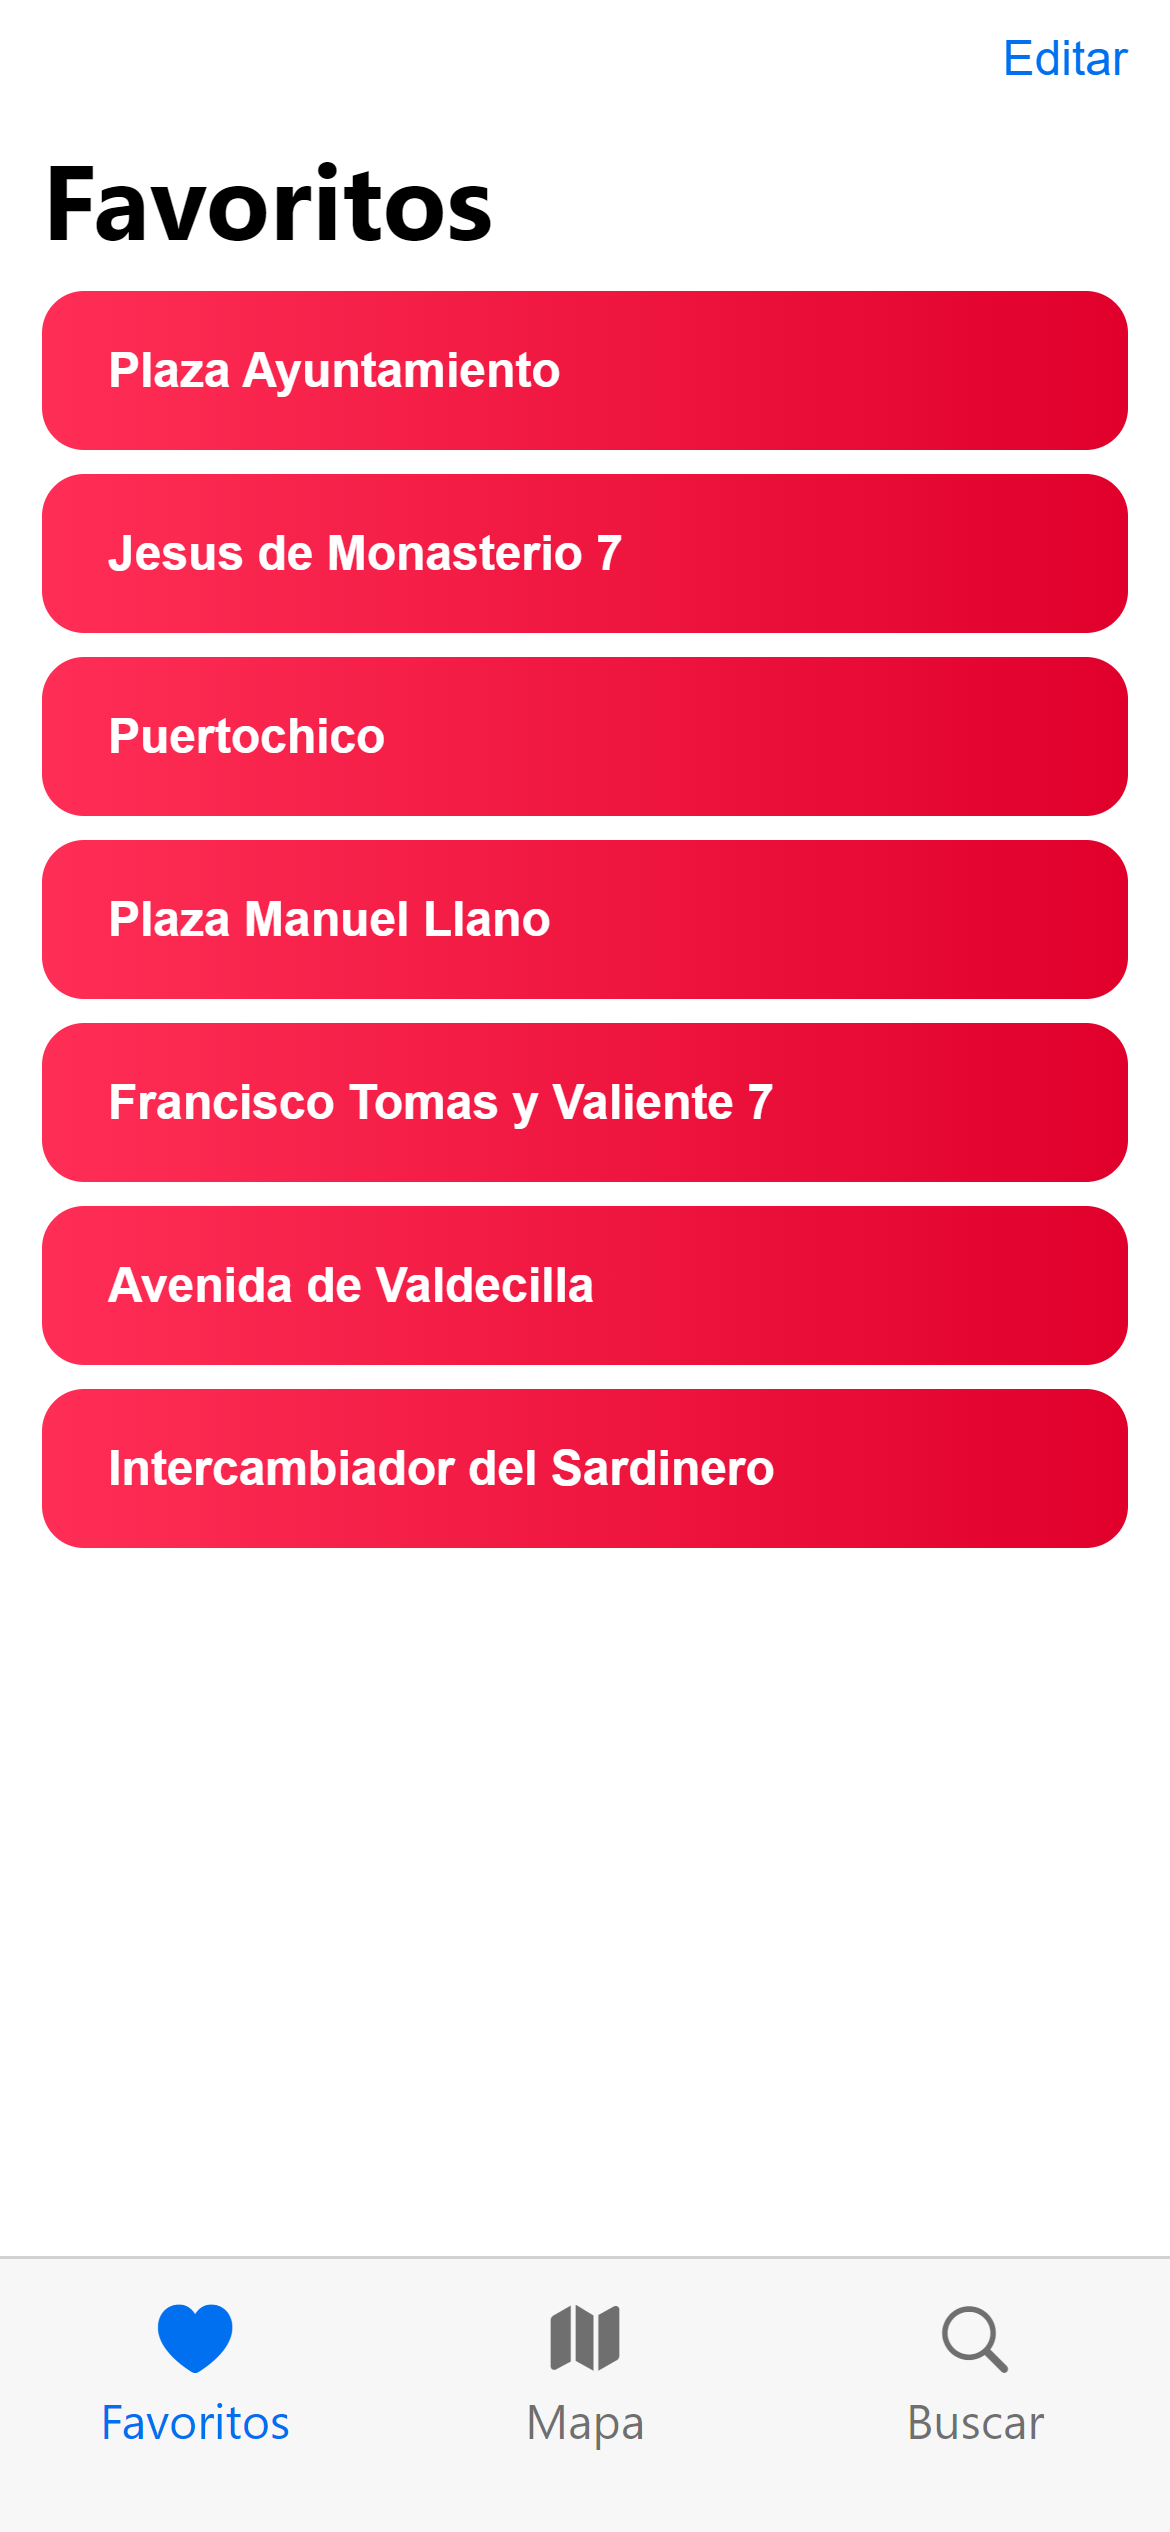
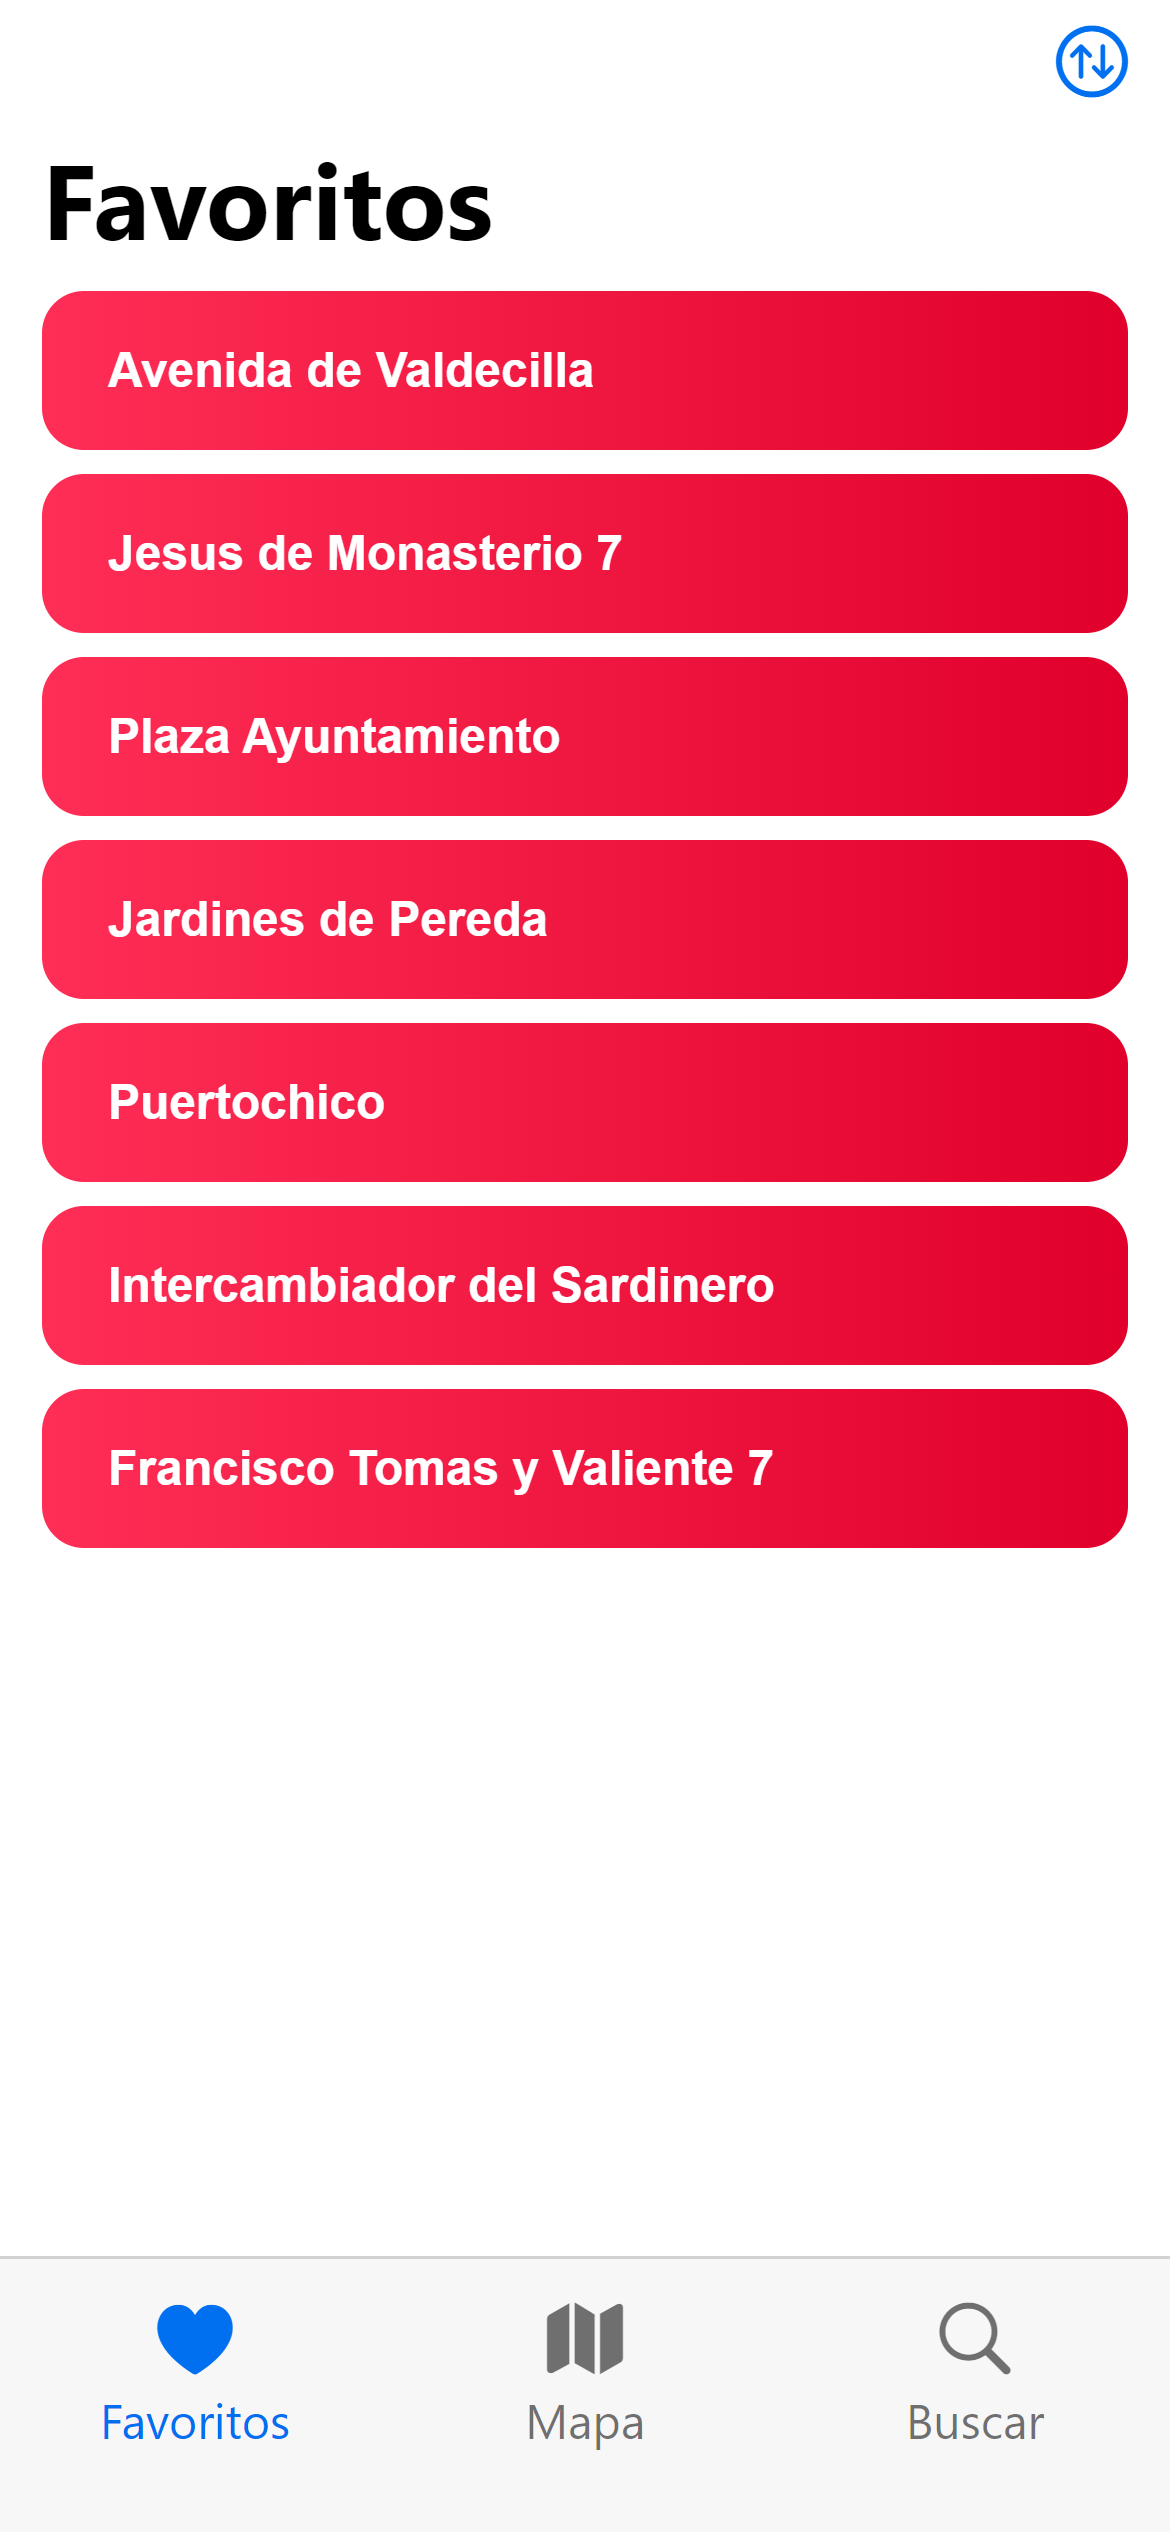
Fix styled component props errors (#259)
* Fix styled component props errors

* Update screenshots

diff --git a/src/views/estimations-stop/EstimationsStopView.js b/src/views/estimations-stop/EstimationsStopView.js
@@ -19,10 +19,6 @@ import Error from "../../components/Error.js";
 import StopLines from "../../components/StopLines.js";
 import EstimationsList from "../../components/estimations/EstimationsList.js";
 
-const isStandalone =
-  navigator.standalone ||
-  window.matchMedia("(display-mode: standalone)").matches;
-
 const EstimationsStopView = (props) => {
   const { data, setViewIdWithData } = useView();
   const { stopId, stopName } = data;
@@ -79,7 +75,7 @@ const EstimationsStopView = (props) => {
           const heartState = getFavorite(stopId) === null ? 1 : 2;
 
           setLoading(false);
-          setRefreshVisible(isStandalone);
+          setRefreshVisible(window.standalone);
           setHeartState(heartState);
         });
     },
@@ -148,7 +144,7 @@ const EstimationsStopView = (props) => {
           <HeartIcon heartState={heartState} updateFavorite={updateFavorite} />
         )}
       </Nav>
-      <Content paddingBottom={isStandalone ? "110px" : "0"}>
+      <Content paddingBottom={window.standalone ? "110px" : "0"}>
         {loading && <Spinner />}
         {error && (
           <Error

diff --git a/src/views/home/subviews/HomeFavoritesSubview.js b/src/views/home/subviews/HomeFavoritesSubview.js
@@ -17,8 +17,8 @@ const SortIconAndDoneLinkStyled = styled.button`
   color: var(--color-blue);
   align-self: flex-end;
   padding: 0 0px;
-  font-family: ${(props) => (props.editMode ? "revert" : "icons")};
-  font-size: ${(props) => (props.editMode ? "inherit" : "24px")};
+  font-family: ${(props) => (props.$editMode ? "revert" : "icons")};
+  font-size: ${(props) => (props.$editMode ? "inherit" : "24px")};
 `;
 
 const ContentStyled = styled.div`
@@ -155,9 +155,9 @@ const HomeFavoritesSubview = (props) => {
         <Fragment>
           <Nav isHeader={true} titleText="Favoritos" hidden={isDesktop}>
             <SortIconAndDoneLinkStyled
-              onClick={toggleEditMode}
-              editMode={editMode}
+              $editMode={editMode}
               hidden={sortIconHidden}
+              onClick={toggleEditMode}
             >
               {editMode ? "Hecho" : ""}
             </SortIconAndDoneLinkStyled>

diff --git a/src/components/RefreshIcon.js b/src/components/RefreshIcon.js
@@ -5,7 +5,7 @@ const RefreshIconStyled = styled.button`
   font-size: 34px;
   color: #fff;
   background: var(--color-blue);
-  box-shadow: 0 2px 12px rgba(0, 0, 0, 0.3);
+  box-shadow: 0 2px 12px rgba(0, 0, 0, 0.2);
   position: fixed;
   border-radius: 100%;
   width: 74px;
@@ -15,12 +15,17 @@ const RefreshIconStyled = styled.button`
   animation: fade-in 0.2s;
   line-height: 74px;
   bottom: 28px;
+
+  & span {
+    position: relative;
+    top: -1px;
+  }
 `;
 
 const RefreshIcon = (props) => {
   return (
     <RefreshIconStyled aria-label="Refrescar" onClick={props.refreshContent}>
-      
+      <span></span>
     </RefreshIconStyled>
   );
 };

diff --git a/src/components/App.js b/src/components/App.js
@@ -1,6 +1,10 @@
 import { ViewProvider } from "../providers/ViewProvider.js";
 import View from "./View.js";
 
+window.standalone =
+  navigator.standalone ||
+  window.matchMedia("(display-mode: standalone)").matches;
+
 const App = () => {
   return (
     <ViewProvider>

diff --git a/src/components/Content.js b/src/components/Content.js
@@ -10,7 +10,7 @@ const ContentStyled = styled.main`
 
 const View = (props) => {
   return (
-    <ContentStyled paddingBottom={props.paddingBottom}>
+    <ContentStyled $paddingBottom={props.paddingBottom}>
       {props.children}
     </ContentStyled>
   );
